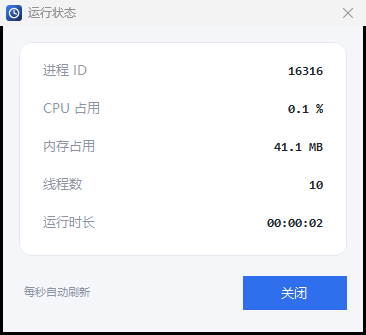
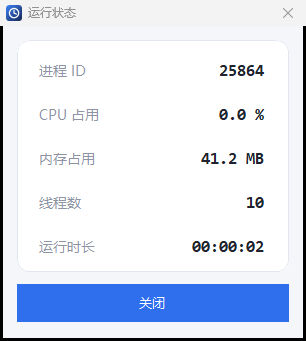
style(v1.2.2): 运行状态面板收窄、字号加大、去掉说明文字
- 窗口 360x306 → 300x312，卡片改为纵向单列布局，更像一张信息卡
- 数值字号 13 → 17（Consolas Bold），标签 12.5 → 14，行距 38 → 44
- 去掉左下角「每秒自动刷新」小字：刷新频率由数值实时变化本身表达
- 关闭按钮改为通栏大按钮，底部留白收紧
- docs/stats.png 换为新版真实截图；版本 1.2.2

diff --git a/src/Dialogs.cs b/src/Dialogs.cs
@@ -327,7 +327,7 @@ namespace WallpaperDeskClock
         }
     }
 
-    /// <summary>运行状态（自动刷新，无开关）</summary>
+    /// <summary>运行状态：窄卡片 + 大字号，数值每秒自动刷新</summary>
     class StatsForm : Form
     {
         Label lblPid, lblCpu, lblMem, lblThreads, lblUptime;
@@ -344,17 +344,17 @@ namespace WallpaperDeskClock
             MaximizeBox = false;
             MinimizeBox = false;
             StartPosition = FormStartPosition.CenterScreen;
-            ClientSize = new Size(360, 306);
+            ClientSize = new Size(300, 312);
             BackColor = Theme.Bg;
-            Font = Theme.Ui(12.5f);
+            Font = Theme.Ui(13.5f);
             Icon = Paths.LoadAppIcon();
             AutoScaleMode = AutoScaleMode.Dpi;
             DoubleBuffered = true;
 
-            var card = new Card { Location = new Point(16, 16), Size = new Size(328, 214) };
+            var card = new Card { Location = new Point(14, 14), Size = new Size(272, 232) };
             Controls.Add(card);
 
-            int y = 18;
+            int y = 20;
             lblPid = Row(card, "进程 ID", ref y);
             lblCpu = Row(card, "CPU 占用", ref y);
             lblMem = Row(card, "内存占用", ref y);
@@ -362,14 +362,10 @@ namespace WallpaperDeskClock
             lblUptime = Row(card, "运行时长", ref y);
 
             var btnClose = Theme.Button("关闭", true);
-            btnClose.Location = new Point(240, 250);
-            btnClose.Size = new Size(104, 34);
+            btnClose.Location = new Point(14, 258);
+            btnClose.Size = new Size(272, 38);
             btnClose.Click += (s, e) => Close();
             Controls.Add(btnClose);
-
-            var tip = Theme.Label("每秒自动刷新", 11, false, Theme.Muted);
-            tip.Location = new Point(18, 258);
-            Controls.Add(tip);
 
             lastCpu = proc.TotalProcessorTime;
             lastSample = DateTime.Now;
@@ -382,23 +378,23 @@ namespace WallpaperDeskClock
 
         Label Row(Control parent, string title, ref int y)
         {
-            var l = Theme.Label(title, 12.5f, false, Theme.Muted);
-            l.Location = new Point(20, y);
+            var l = Theme.Label(title, 14f, false, Theme.Muted);
+            l.Location = new Point(18, y);
             parent.Controls.Add(l);
 
             var v = new Label
             {
                 Text = "-",
                 AutoSize = false,
-                Size = new Size(180, 22),
-                Location = new Point(128, y - 1),
+                Size = new Size(150, 26),
+                Location = new Point(102, y - 3),
                 TextAlign = ContentAlignment.MiddleRight,
-                Font = Theme.Mono(13),
+                Font = Theme.Mono(17f),
                 ForeColor = Theme.Text,
                 BackColor = Color.Transparent
             };
             parent.Controls.Add(v);
-            y += 38;
+            y += 44;
             return v;
         }
 

diff --git a/src/AssemblyInfo.cs b/src/AssemblyInfo.cs
@@ -6,6 +6,6 @@
 [assembly: AssemblyProduct("WallpaperDeskClock")]
 [assembly: AssemblyCompany("xkzm123")]
 [assembly: AssemblyCopyright("Copyright © 2026 xkzm123")]
-[assembly: AssemblyVersion("1.2.1.0")]
-[assembly: AssemblyFileVersion("1.2.1.0")]
-[assembly: AssemblyInformationalVersion("1.2.1")]
+[assembly: AssemblyVersion("1.2.2.0")]
+[assembly: AssemblyFileVersion("1.2.2.0")]
+[assembly: AssemblyInformationalVersion("1.2.2")]
